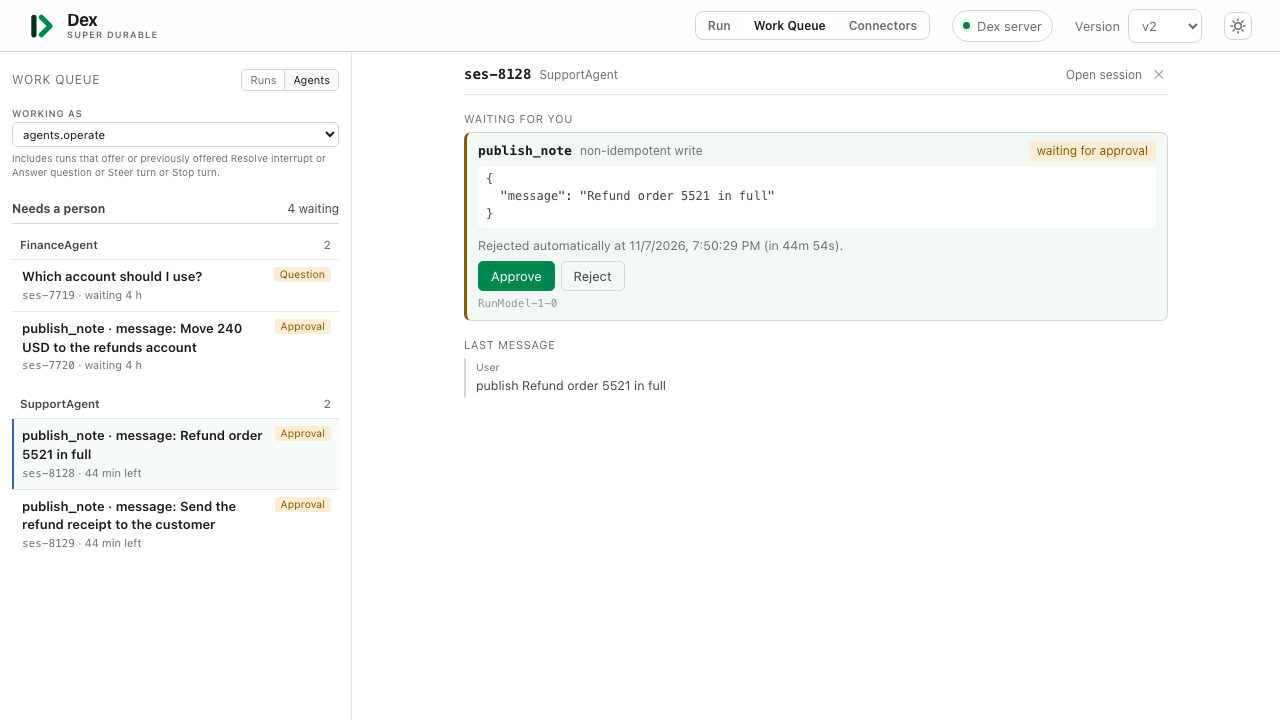
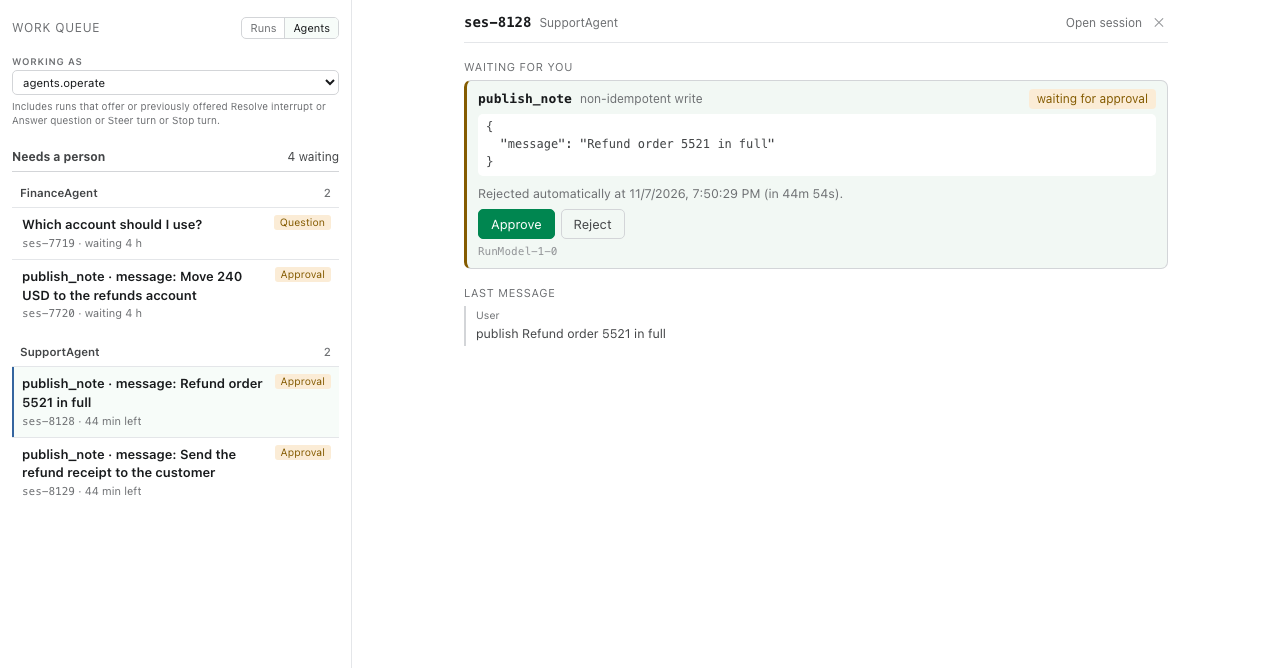
Docs: describe the merged Dex Web UI and add the 1.41 change log entries

diff --git a/docs/src/components/DocsFlowCanvas.tsx b/docs/src/components/DocsFlowCanvas.tsx
@@ -8,18 +8,18 @@
 
 import {useCallback, useMemo, useState} from 'react';
 import type {FlowDefinitionGraph} from '@superdurable/flow-definition-renderer';
-import {safeDecode} from '@dex-web-v2/canvas/model/decode';
-import {ArrowDefs} from '@dex-web-v2/canvas/render/ArrowDefs';
-import {Stage} from '@dex-web-v2/canvas/render/Stage';
-import {useStageScene} from '@dex-web-v2/canvas/useStageScene';
-import {stageId} from '@dex-web-v2/canvas/views/stageCard';
-import {stepTitle} from '@dex-web-v2/canvas/views/stepBox';
-import type {Direction} from '@dex-web-v2/canvas/views/types';
-import {Controls} from '@dex-web-v2/flow/Controls';
-import {Legend} from '@dex-web-v2/flow/Legend';
-import {groupsFromDefinition} from '@dex-web-v2/groupsFromGraph';
-import '@dex-web-v2/css/tokens.css';
-import '@dex-web-v2/css/canvas.css';
+import {safeDecode} from '@dex-web-design/canvas/model/decode';
+import {ArrowDefs} from '@dex-web-design/canvas/render/ArrowDefs';
+import {Stage} from '@dex-web-design/canvas/render/Stage';
+import {useStageScene} from '@dex-web-design/canvas/useStageScene';
+import {stageId} from '@dex-web-design/canvas/views/stageCard';
+import {stepTitle} from '@dex-web-design/canvas/views/stepBox';
+import {DIRECTION_LABEL, DIRECTIONS, type Direction} from '@dex-web-design/canvas/views/types';
+import type {StageState} from '@dex-web-design/canvas/useStageScene';
+import {Legend} from '@dex-web-design/flow/Legend';
+import {groupsFromDefinition} from '@dex-web-design/groupsFromGraph';
+import '@dex-web-workspace/css/tokens.css';
+import '@dex-web-design/canvas.css';
 
 /** A Version 2.0 definition drawn with Dex Web's Flow canvas, without a run. */
 export default function DocsFlowCanvas({graph}: {graph: FlowDefinitionGraph}) {
@@ -51,7 +51,7 @@ export default function DocsFlowCanvas({graph}: {graph: FlowDefinitionGraph}) {
       <div className="pcanvas">
         <ArrowDefs />
         <div className="pctlbar">
-          <Controls
+          <DocsFlowCanvasControls
             stages={stages.hasStages ? stages.state : null}
             direction={direction}
             onCollapseAll={stages.collapseAll}
@@ -122,6 +122,69 @@ export default function DocsFlowCanvas({graph}: {graph: FlowDefinitionGraph}) {
       <p className="sr-only" aria-live="polite">
         {stages.cue?.message}
       </p>
+    </div>
+  );
+}
+
+/** The View and Direction controls of the docs canvas. */
+function DocsFlowCanvasControls({
+  stages,
+  direction,
+  onCollapseAll,
+  onExpandAll,
+  onDirection,
+}: {
+  stages: StageState | null;
+  direction: Direction;
+  onCollapseAll: () => void;
+  onExpandAll: () => void;
+  onDirection: (direction: Direction) => void;
+}) {
+  return (
+    <div className="pctl">
+      {stages === null ? null : (
+        <div className="pctl-group" role="group" aria-label="View">
+          <span className="pctl-label">View</span>
+          <div className="pctl-row">
+            <button
+              type="button"
+              className="pchip"
+              aria-pressed={stages === 'collapsed'}
+              data-on={stages === 'collapsed' ? 'true' : undefined}
+              onClick={onCollapseAll}
+            >
+              Collapsed
+            </button>
+            <button
+              type="button"
+              className="pchip"
+              aria-pressed={stages === 'expanded'}
+              data-on={stages === 'expanded' ? 'true' : undefined}
+              onClick={onExpandAll}
+            >
+              Expanded
+            </button>
+          </div>
+        </div>
+      )}
+      <div className="pctl-group">
+        <span className="pctl-label">Direction</span>
+        <div className="pctl-row" role="radiogroup" aria-label="Direction">
+          {DIRECTIONS.map((option) => (
+            <button
+              key={option}
+              type="button"
+              role="radio"
+              aria-checked={direction === option}
+              className="pchip"
+              data-on={direction === option ? 'true' : undefined}
+              onClick={() => onDirection(option)}
+            >
+              {DIRECTION_LABEL[option]}
+            </button>
+          ))}
+        </div>
+      </div>
     </div>
   );
 }

diff --git a/docs/docusaurus.config.ts b/docs/docusaurus.config.ts
@@ -217,7 +217,8 @@ const config: Config = {
           symlinks: false,
           // Dex Web's Flow canvas is compiled from its source and shares the docs' React and libraries.
           alias: {
-            '@dex-web-v2': fileURLToPath(new URL('../web/app/v2', import.meta.url)),
+            '@dex-web-design': fileURLToPath(new URL('../web/app/design', import.meta.url)),
+            '@dex-web-workspace': fileURLToPath(new URL('../web/app/workspace', import.meta.url)),
             ...Object.fromEntries(
               ['react', 'react-dom', '@xyflow/react', 'elkjs'].map((name) => [
                 name,
@@ -233,7 +234,8 @@ const config: Config = {
               test: /\.[jt]sx?$/,
               include: [
                 fileURLToPath(new URL('./node_modules/@superdurable/flow-definition-renderer/src', import.meta.url)),
-                fileURLToPath(new URL('../web/app/v2', import.meta.url)),
+                fileURLToPath(new URL('../web/app/design', import.meta.url)),
+                fileURLToPath(new URL('../web/app/workspace', import.meta.url)),
               ],
             },
           ],
